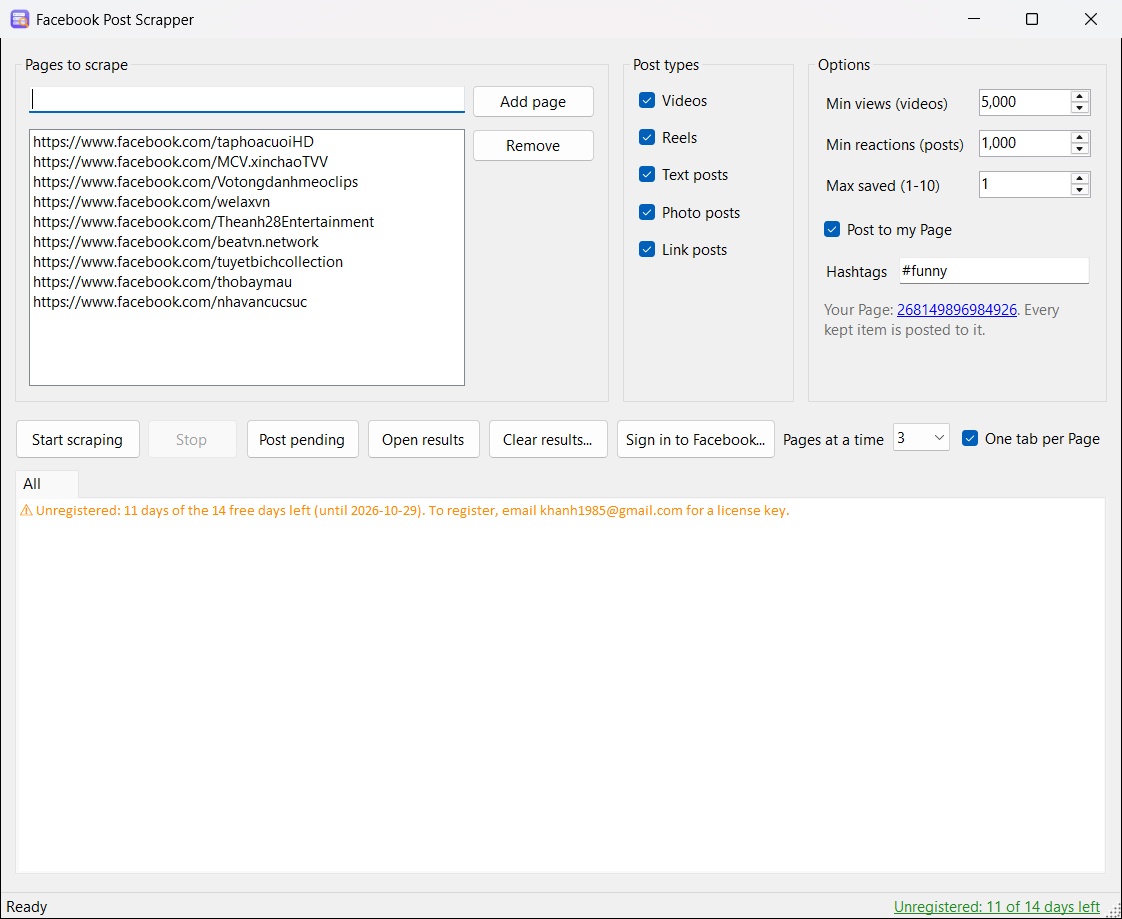
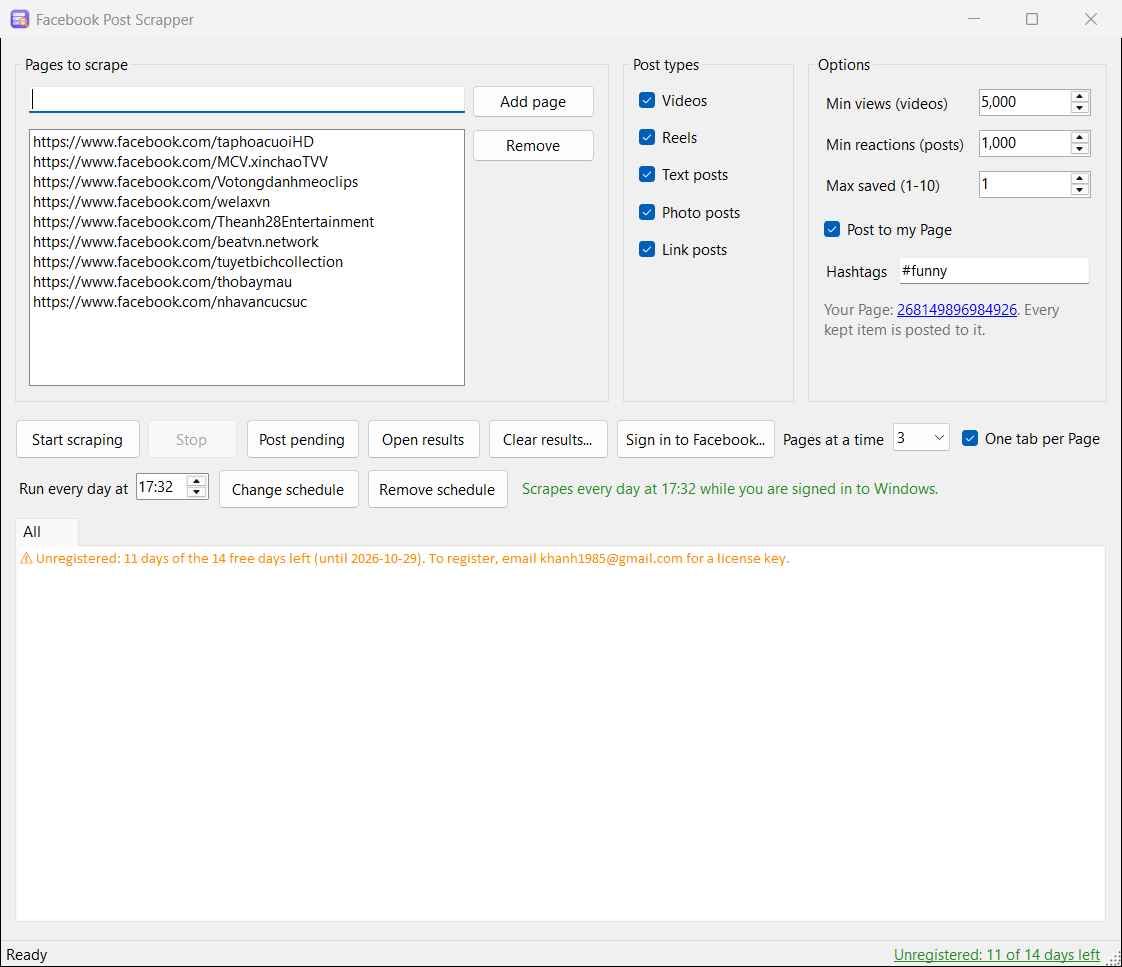
Facebook Post Scrapper 1.1.0

diff --git a/README.md b/README.md
@@ -6,7 +6,7 @@ Running a Facebook Page means feeding it every day. Facebook Post Scrapper does 
 you like, tell it what "popular" means to you, and it collects the content that is already proven to work, then posts
 it to your Page with your own hashtags.
 
-![The main window: the Pages to watch, the post types to collect and your options](images/main-window.png)
+![The main window: the Pages to watch, the post types to collect, your options and the daily schedule](images/main-window.png)
 
 ## What it does
 
@@ -16,11 +16,13 @@ it to your Page with your own hashtags.
    choose, are kept. Everything else is skipped.
 4. **It goes through every Page for you**, several Pages at a time, and shows what it finds as it works.
 5. **It posts what it keeps to your Page**, with your hashtags added at the end, or saves it for you to post later.
+6. **It can do all this by itself every day.** Pick a time and press **Create schedule**: your Page gets fresh content
+   daily without you opening the app.
 
 Each Page gets its own tab. **KEEP** marks what passed your bar, with its views or reactions, its caption and a link
 you can click to open it:
 
-![A Page's tab: popular Reels kept, with their views, captions and links](images/page-tab-results.png)
+![A Page's tab: popular posts kept, with their reactions, captions and links](images/page-tab-results.png)
 
 When the run ends, a summary shows how much was checked and saved:
 
@@ -30,6 +32,7 @@ When the run ends, a summary shows how much was checked and saved:
 
 | | |
 |---|---|
+| **Runs every day by itself** | Choose a time and press **Create schedule**. Every day at that time the app opens, scrapes your Pages, posts to your Page and closes again, even if you closed it. |
 | **Popular content only** | Set Min views for videos and Reels, and Min reactions for text, photo and link posts. |
 | **All kinds of posts** | Videos, Reels, text, photo and link posts, each one switched on or off with a tick. |
 | **Posts to your Page** | Sign in to Facebook once, pick your Page, and what is kept is posted there automatically. |
@@ -40,6 +43,21 @@ When the run ends, a summary shows how much was checked and saved:
 | **Clickable results** | Every kept item is shown with its link: click it to open the post in your browser. |
 | **Everything in one file** | All results are saved to a spreadsheet (CSV) you can open in Excel, with the link, reactions, views, text and images of each item. |
 | **Stop whenever you like** | Set a limit on how many new items a run saves, or press **Stop** at any time. Nothing is lost. |
+
+## Running every day by itself
+
+1. Set up your Pages, post types and options as you want them, and sign in to Facebook if you post to your Page.
+2. Under the buttons, set **Run every day at** to the time you want, for example `08:00`.
+3. Press **Create schedule**. The line next to it confirms: "Scrapes every day at 08:00 while you are signed in to
+   Windows."
+
+At that time the app opens minimized, runs with the settings you saw in the window, and closes again when it's done.
+If the app is already open, it runs in that window. You can close the app; just stay signed in to Windows (a locked
+screen is fine). If the PC was off or asleep at that time, it runs as soon as you're back.
+
+- **Change the time:** pick the new time and press **Change schedule**.
+- **Stop it:** press **Remove schedule**. Uninstalling the app also removes it.
+- **See what happened:** everything a run did is in the log files in `%LOCALAPPDATA%\FbPostScrapperApp\Logs`, one per day.
 
 ## Safe sign-in
 
